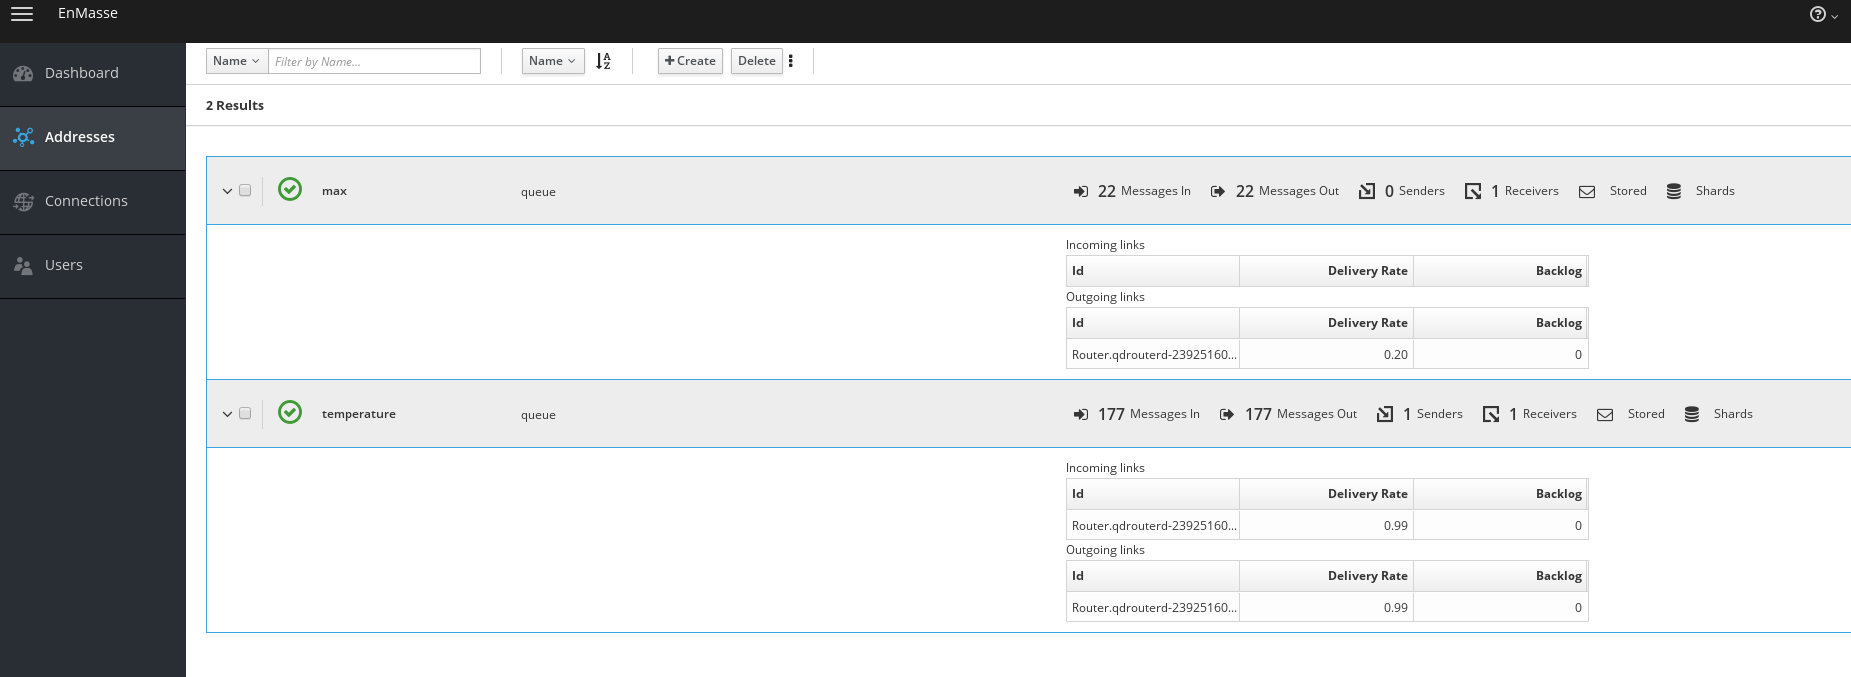
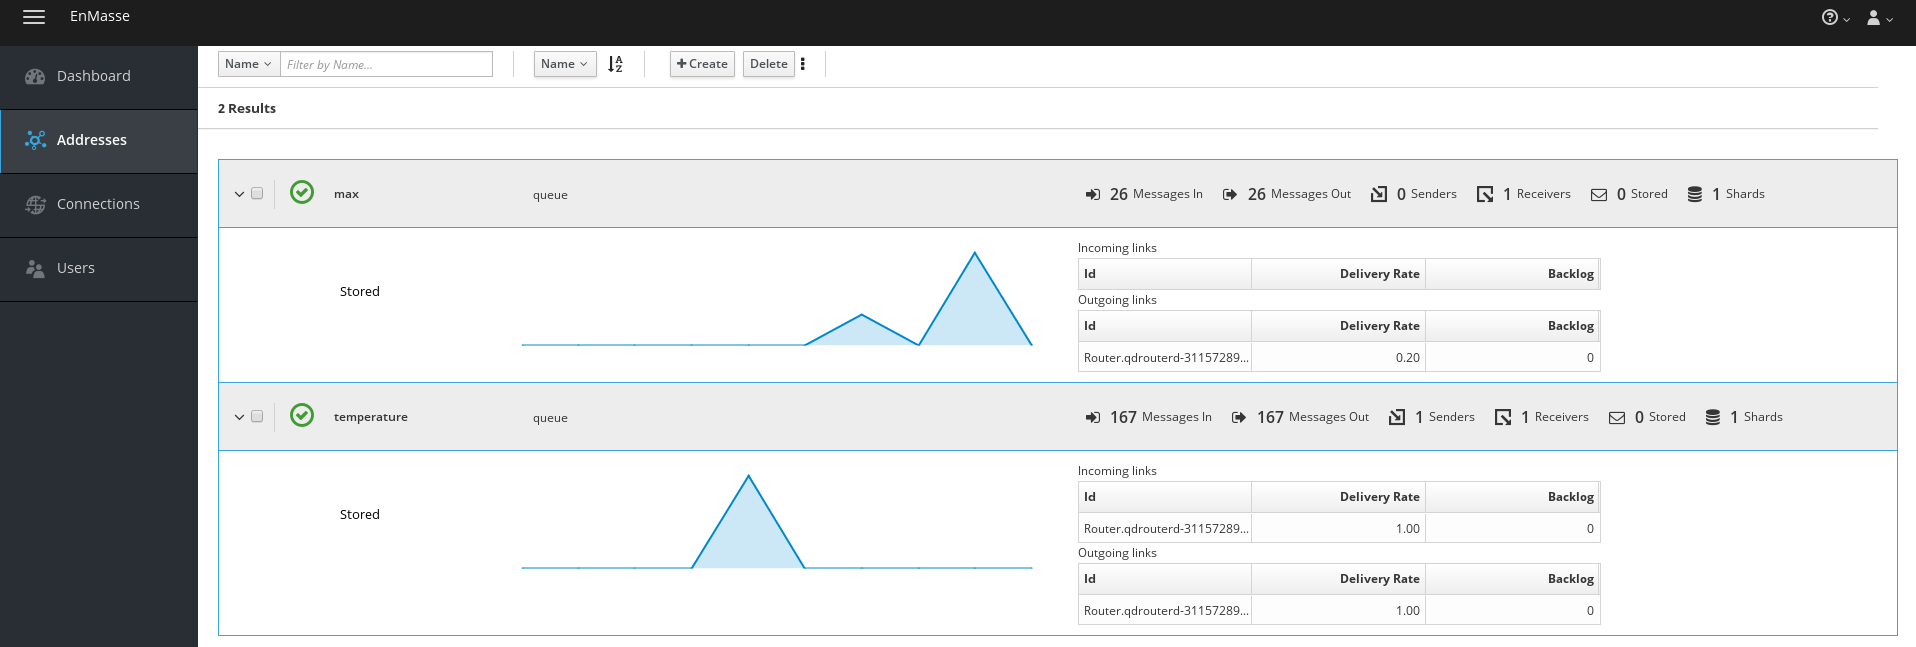
Added EnMasse console dashboard image

diff --git a/README.md b/README.md
@@ -174,12 +174,17 @@ providing the _messaging_ IP address and port and the _max_ address for reading 
 
 ### A view from the EnMasse console
 
-Following picture shows how there is a connection from the publisher on the _temperature_ address sending values, a connection from the final receiver on the _max_ address 
+The following picture shows the main dashboard with general information about how the senders and receivers are distributed across addresses and how many messages have been processed so far.
+
+![EnMasse console dashboard](./images/enmasse_console_dashboard.png)
+
+This other picture shows how there is a connection from the publisher on the _temperature_ address sending values, a connection from the final receiver on the _max_ address 
 for getting filtered maximum values and finally a receiver (the Spark Streaming driver) on the _temperature_ address as well getting values for streaming analytics.
 
 ![EnMasse console connections](./images/enmasse_console_connections.png)
 
-In this picture, the _temperature_ and _max_ addresses are showed with more information even related to the AMQP links created against them.
+In this picture, the _temperature_ and _max_ addresses are showed with more information even related to the AMQP links created against them and if some messages are stored
+if, for example, the receiver isn't online and the Spark Streaming driver is putting filtered maximum values in the related queue.
 
 ![EnMasse console connections](./images/enmasse_console_addresses.png)
 
